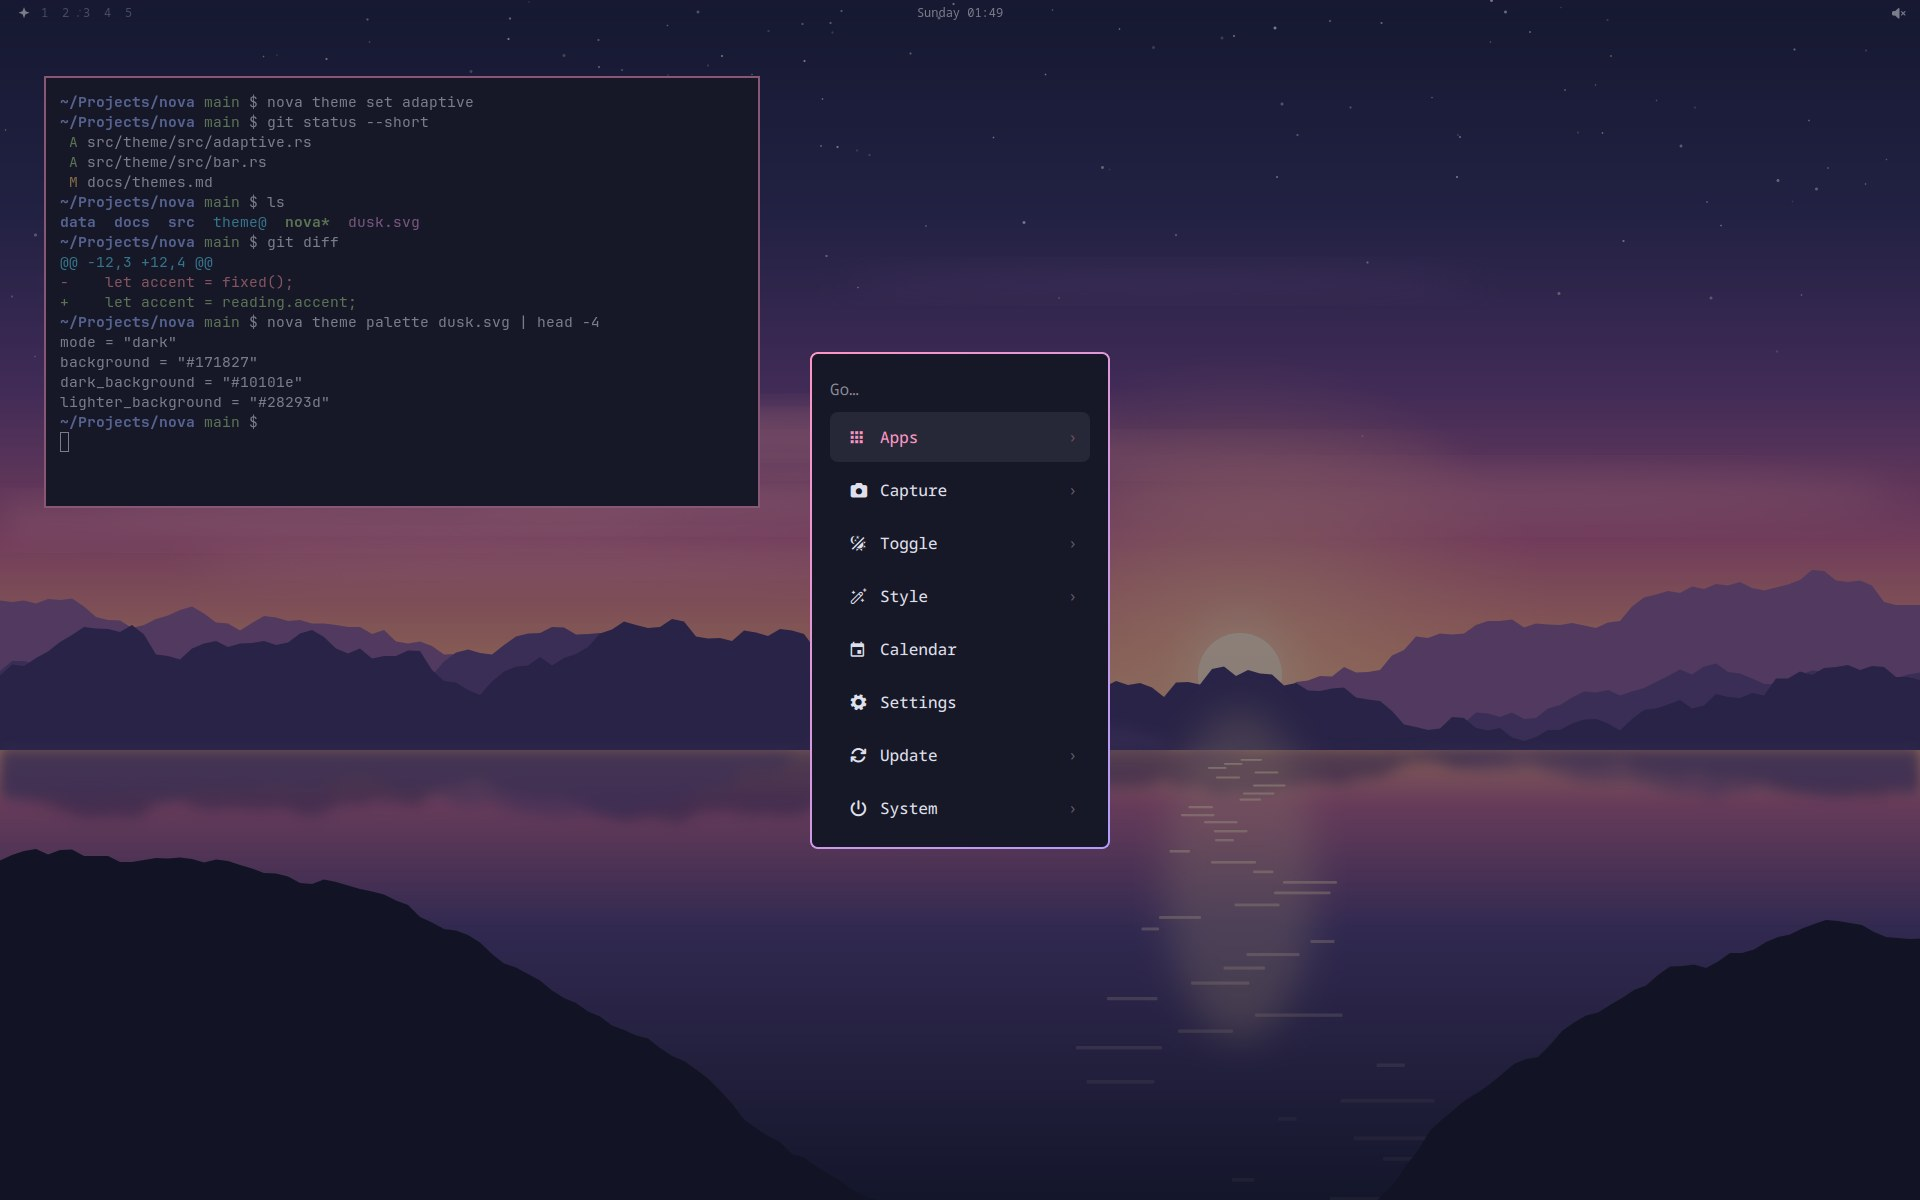
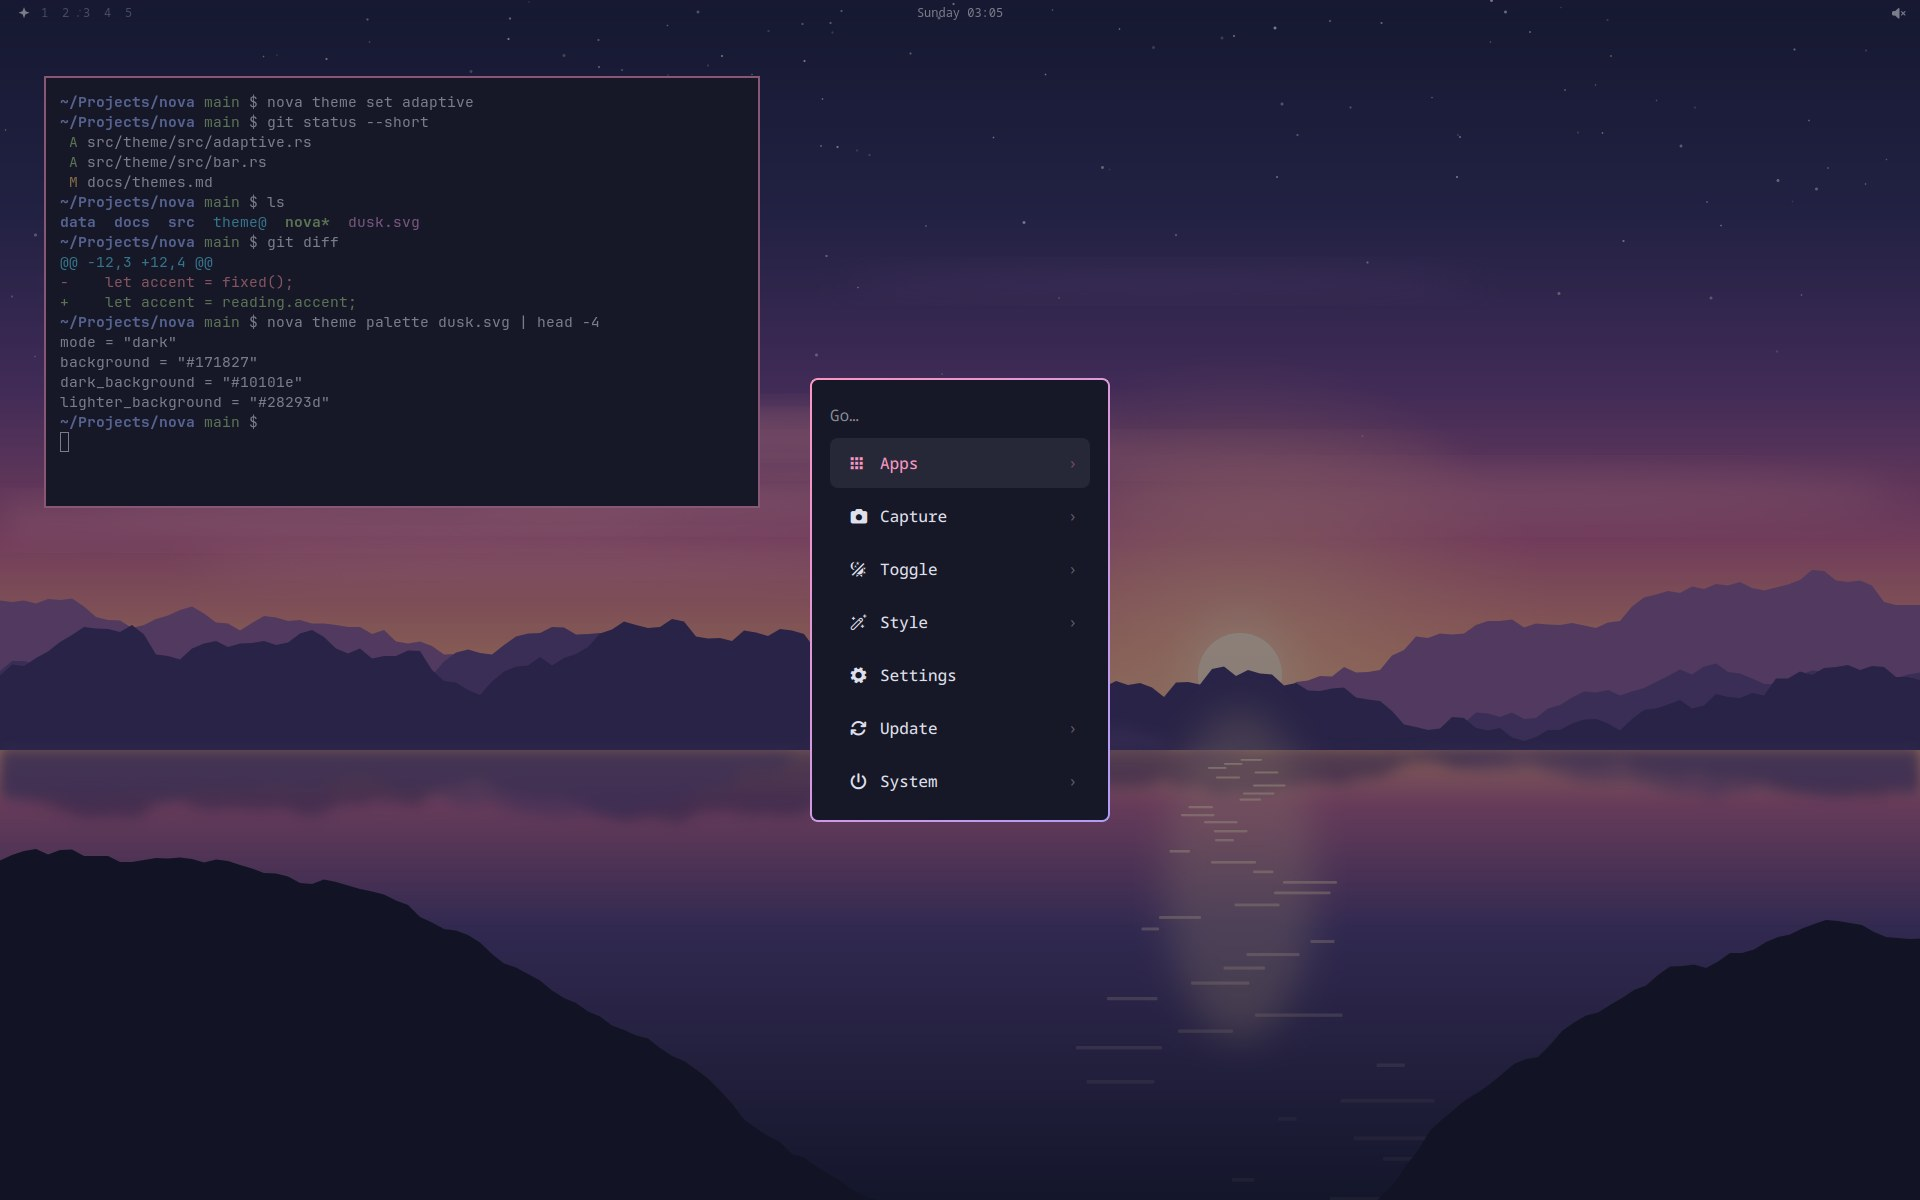
feat(menu): the Calendar is no longer an entry of the menu
Andre asked for it out of the menu Super+Space opens. The Calendar still
opens from the clock's card, from a reminder and with `nova calendar`, and
an entry for it in ~/.config/nova/menu.jsonc brings it back for whoever
wants it there.

The menu's picture is taken again, and the two lists of its entries in the
README and the guide follow.

Changed region(s): [[0.4062, 0.2775, 0.5938, 0.7092]]

diff --git a/docs/using.md b/docs/using.md
@@ -131,7 +131,7 @@ The file has examples of a new key and of one removed.
 
 ## The menu
 
-<img src="images/menu.jpg" alt="The Nova menu open in the middle of the screen: a search field, then Apps, Capture, Toggle, Style, Calendar, Settings, Update and System" width="720">
+<img src="images/menu.jpg" alt="The Nova menu open in the middle of the screen: a search field, then Apps, Capture, Toggle, Style, Settings, Update and System" width="720">
 
 Super+Space opens it. Type to search, or go down the list:
 
@@ -142,7 +142,6 @@ Super+Space opens it. Type to search, or go down the list:
 | Toggle | Caffeine, Do Not Disturb, Night Light, Screen Time, Menu Bar, Window Gaps; Laptop Display and Touchpad where there is one; Discrete GPU on a ThinkPad P1 Gen 4i |
 | Style | Theme, Background, Font, and the Menu Bar's place and transparency |
 | Power Mode | the battery's power modes, where the computer has them |
-| Calendar | the calendar |
 | Settings | Settings |
 | Update | Nova and Firmware (Settings → Updates), Restart (the shell, audio, Wi-Fi or Bluetooth), Timezone, Password |
 | System | Lock, Suspend, Hibernate (where the computer can), Log Out, Restart, Restart to Recovery, Shut Down |
@@ -189,7 +188,7 @@ The page names for `nova settings` are `wifi`, `bluetooth`, `mobile-data`, `soun
 
 <img src="images/calendar.jpg" alt="The calendar showing a week in November 2026, with events on Friday, Saturday and Sunday and an empty task list beside it" width="720">
 
-Events and tasks, in a week or a month. Open it from the menu, from the clock's card, from a reminder, or with `nova calendar [week|month] [day]`, where the day is `2026-10-29`, `tomorrow` or `next friday`.
+Events and tasks, in a week or a month. Open it from the clock's card, from a reminder, or with `nova calendar [week|month] [day]`, where the day is `2026-10-29`, `tomorrow` or `next friday`.
 
 - **Events** move by dragging. An event's bottom edge, dragged, says when it ends; a drag over the empty hours makes a new one.
 - **Tasks** go onto a day, onto a time (then they are reminded of), or off their day into the list beside.

diff --git a/README.md b/README.md
@@ -50,7 +50,7 @@ The [install guide](docs/install.md) has the rest: each question, encryption, th
 [Using Nova](docs/using.md) has every key, the menu, Settings page by page, and the rest of the desktop.
 
 <p>
-<img src="docs/images/menu.jpg" alt="The Nova menu open in the middle of the screen: a search field, then Apps, Capture, Toggle, Style, Calendar, Settings, Update and System" width="49%">
+<img src="docs/images/menu.jpg" alt="The Nova menu open in the middle of the screen: a search field, then Apps, Capture, Toggle, Style, Settings, Update and System" width="49%">
 <img src="docs/images/calendar.jpg" alt="The calendar showing a week in November 2026, with events on Friday, Saturday and Sunday and an empty task list beside it" width="49%">
 </p>
 
